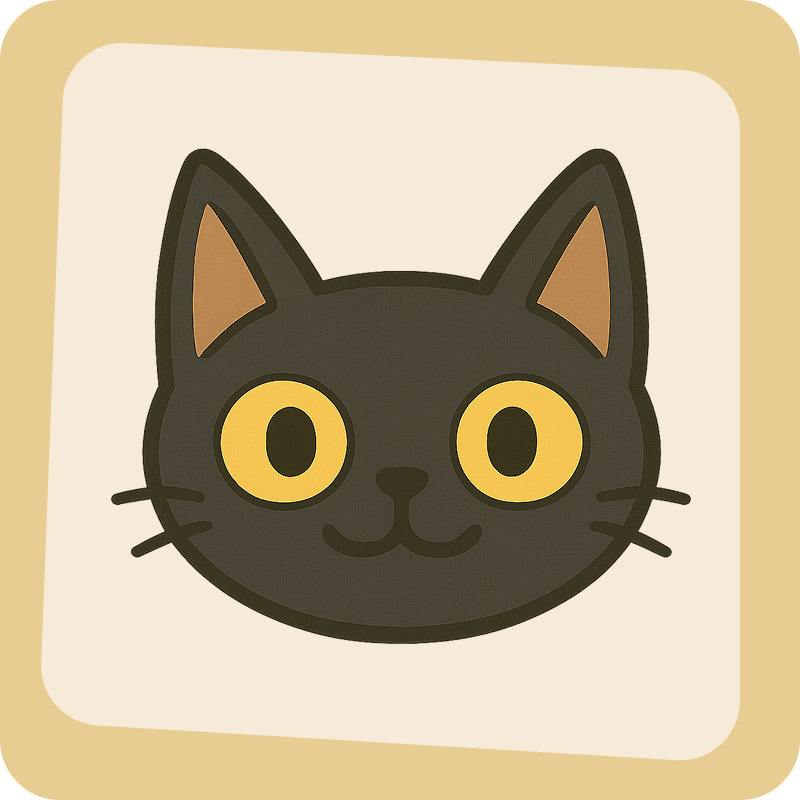
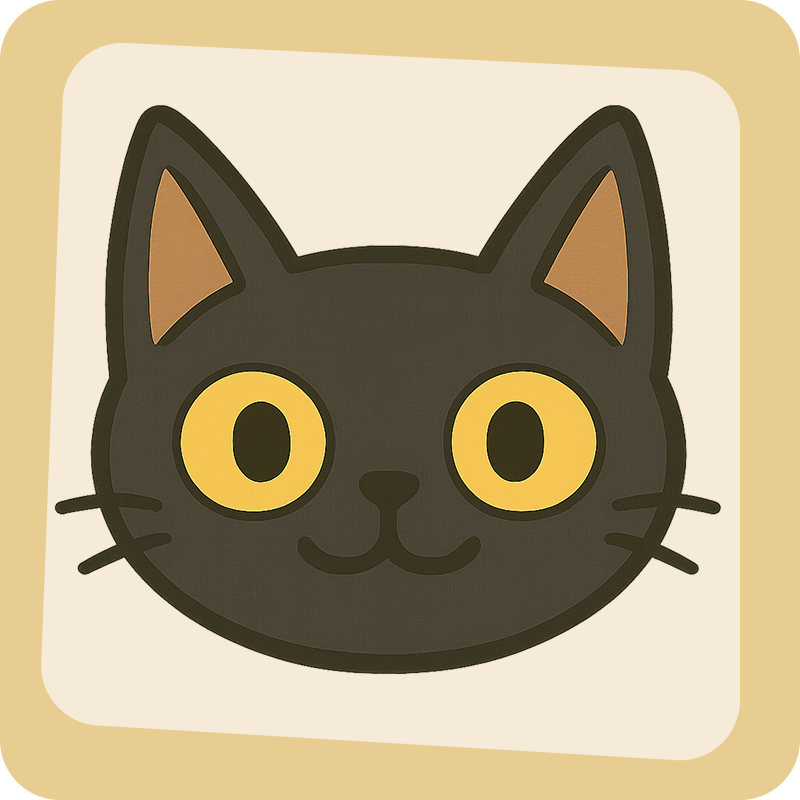
chore: change the button image of personality page

diff --git a/mobile/app/index.tsx b/mobile/app/index.tsx
@@ -1,4 +1,5 @@
 import { useRouter } from "expo-router";
+import { useState } from "react";
 import {
   View,
   ImageBackground,
@@ -12,6 +13,17 @@ const { width, height } = Dimensions.get("window");
 
 const Home = () => {
   const router = useRouter();
+  const [catImage, setCatImage] = useState(
+    require("../assets/images/personality-1.png"),
+  );
+
+  const handleCatClick = () => {
+    setCatImage(require("../assets/images/personality-2.png"));
+    setTimeout(() => {
+      router.push("/personality");
+      setCatImage(require("../assets/images/personality-1.png"));
+    }, 500);
+  };
 
   return (
     <ImageBackground
@@ -21,10 +33,10 @@ const Home = () => {
       <View style={styles.container}>
         <TouchableOpacity
           style={styles.settingsButton}
-          onPress={() => console.log("Settings pressed")}
+          onPress={handleCatClick}
         >
           <Image
-            source={require("../assets/images/settings-button.png")}
+            source={catImage}
             style={styles.settingsIcon}
             resizeMode="contain"
           />

diff --git a/mobile/app/_layout.tsx b/mobile/app/_layout.tsx
@@ -12,6 +12,7 @@ export default function RootLayout() {
       <Stack>
         <Stack.Screen name="index" options={{ headerShown: false }} />
         <Stack.Screen name="postcards" options={{ headerShown: false }} />
+        <Stack.Screen name="personality" options={{ headerShown: false }} />
       </Stack>
       <StatusBar style="auto" />
     </Provider>

diff --git a/mobile/app/personality.tsx b/mobile/app/personality.tsx
@@ -5,7 +5,7 @@ const Personality = () => {
   const router = useRouter();
 
   return (
-    <View>
+    <View style={{ flex: 1, justifyContent: "center", alignItems: "center" }}>
       <Text>Personality</Text>
       <TouchableOpacity onPress={() => router.back()}>
         <Text>Back</Text>
